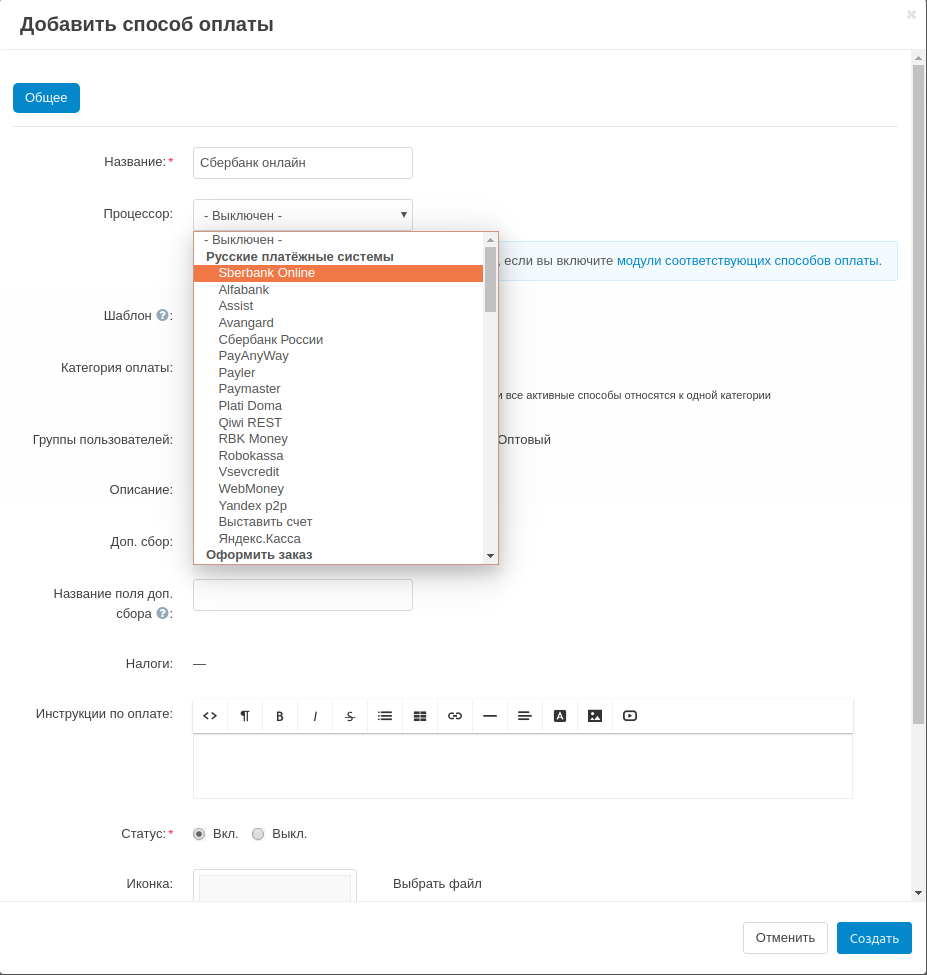
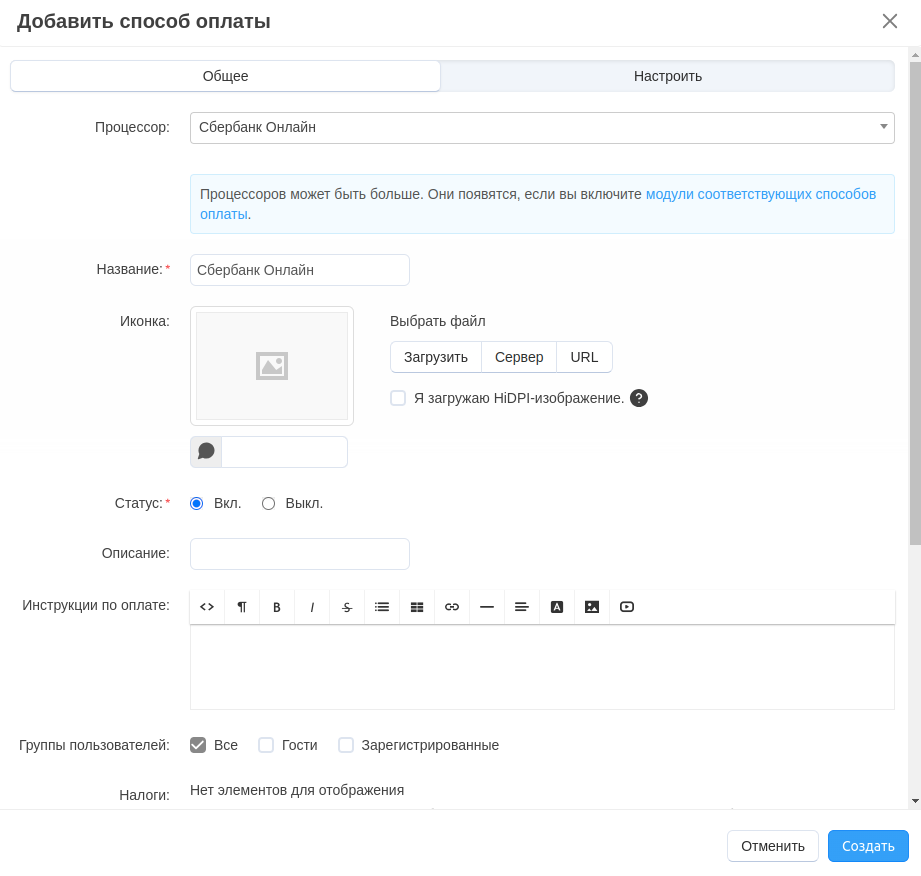
[~] Docs: RU Sberbank Online payment method article updated.

diff --git a/ru/user_guide/payment_methods/sberbank_online.rst b/ru/user_guide/payment_methods/sberbank_online.rst
@@ -23,7 +23,7 @@
 
 2. Создайте новый способ оплаты (:doc:`Способы оплаты <adding_payment>`).
 
-3. Выберите процессор оплаты "Sberbank Online" в окне редактирования способа оплаты.
+3. Выберите процессор оплаты "Сбербанк Онлайн" в окне редактирования способа оплаты.
 
 .. fancybox:: img/sberbank_online_select.png
     :alt: Sberbank
